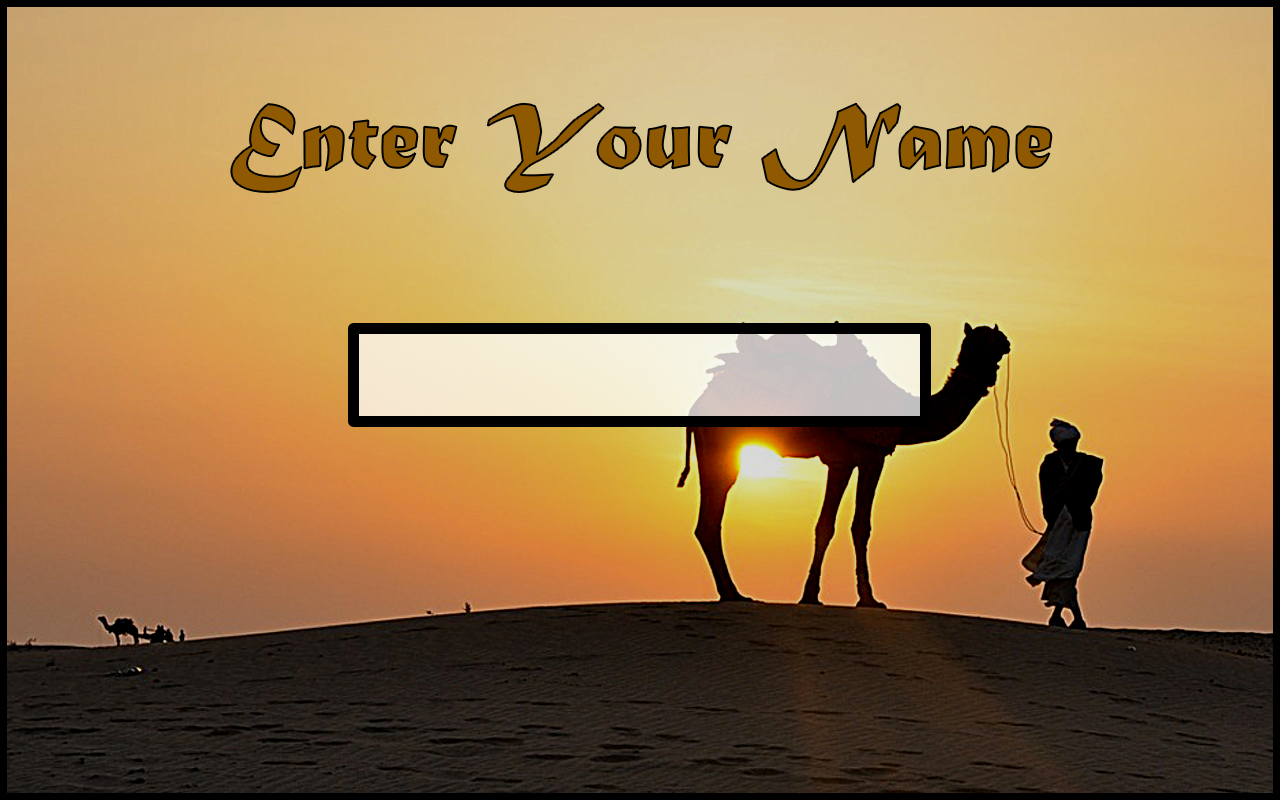
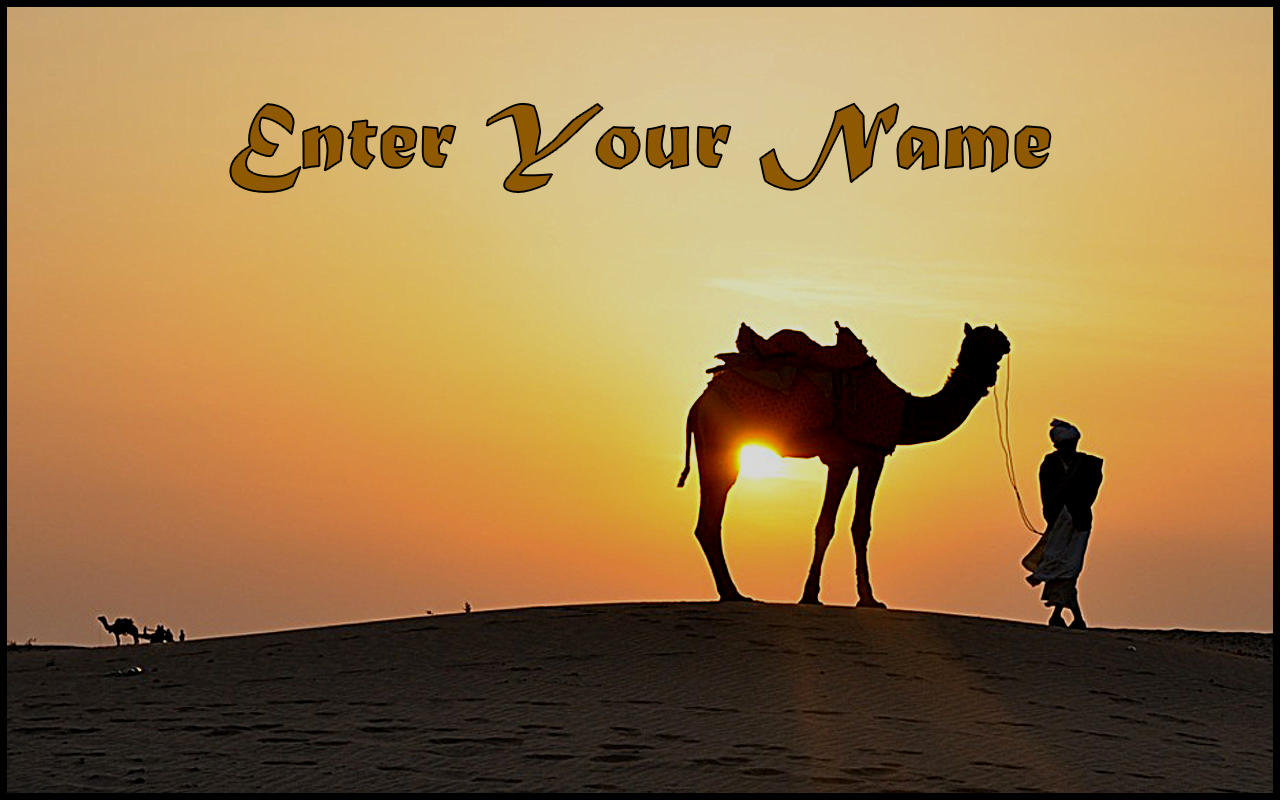
added functional namescreen, and fixed weird random rounding bugg in options menu in game

diff --git a/src/name.js b/src/name.js
@@ -1,3 +1,5 @@
+var input;
+
 var nameScreen = {
 
 	preload: function(){
@@ -18,19 +20,31 @@ var nameScreen = {
 		}
 
 		game.game.add.plugin(PhaserInput.Plugin);
-		var input = this.add.inputField(360,335, {
+		input = this.add.inputField(360,335, {
 			font: '78px Arial',
-			width: 560
-
+			width: 560,
+			borderWidth: 5,
+			borderColor: '#000',
+			max: 14
 		});
 	},
+
+
 
 	goBackToMenu: function(){
 		main.state.start('menu');
 	},
 
 	continueToGame: function(){
-		//save whatever is in textbox to playerName
+		//If nothing is written in the box, don't let user go to game
+		if(input.value == "")
+			return;
+		//assign global playerName to this value
+		playerName = input.value;
+		//only shut down music if you're going to start game, 
+		//I did not put this in shutdown function cause 
+		//if the user went back via back button, music would restart
+		introMusic.stop();
 		main.state.start('game');
 	}
 

diff --git a/src/game.js b/src/game.js
@@ -129,14 +129,14 @@ var game = {
                         //transform it to 0-1, set musicVolume
                         clickx = event.x - 170;
                         musicVolume = (clickx/937).toFixed(2);
-                        musicText.setText("Music Volume: " + (musicVolume*100).toFixed(0));
+                        musicText.setText("Music Volume: " + (musicVolume*100).toFixed(0).toFixed(0));
                    }
                    //fx section
                     if(event.y < 507 && event.y > 382){
                         //same as music section
                         clickx = event.x - 170;
                         fxVolume = (clickx/937).toFixed(2);
-                        fxText.setText("FX Volume: " + (fxVolume*100).toFixed(0));
+                        fxText.setText("FX Volume: " + (fxVolume*100).toFixed(0).toFixed(0));
                    }   
 
                 }
